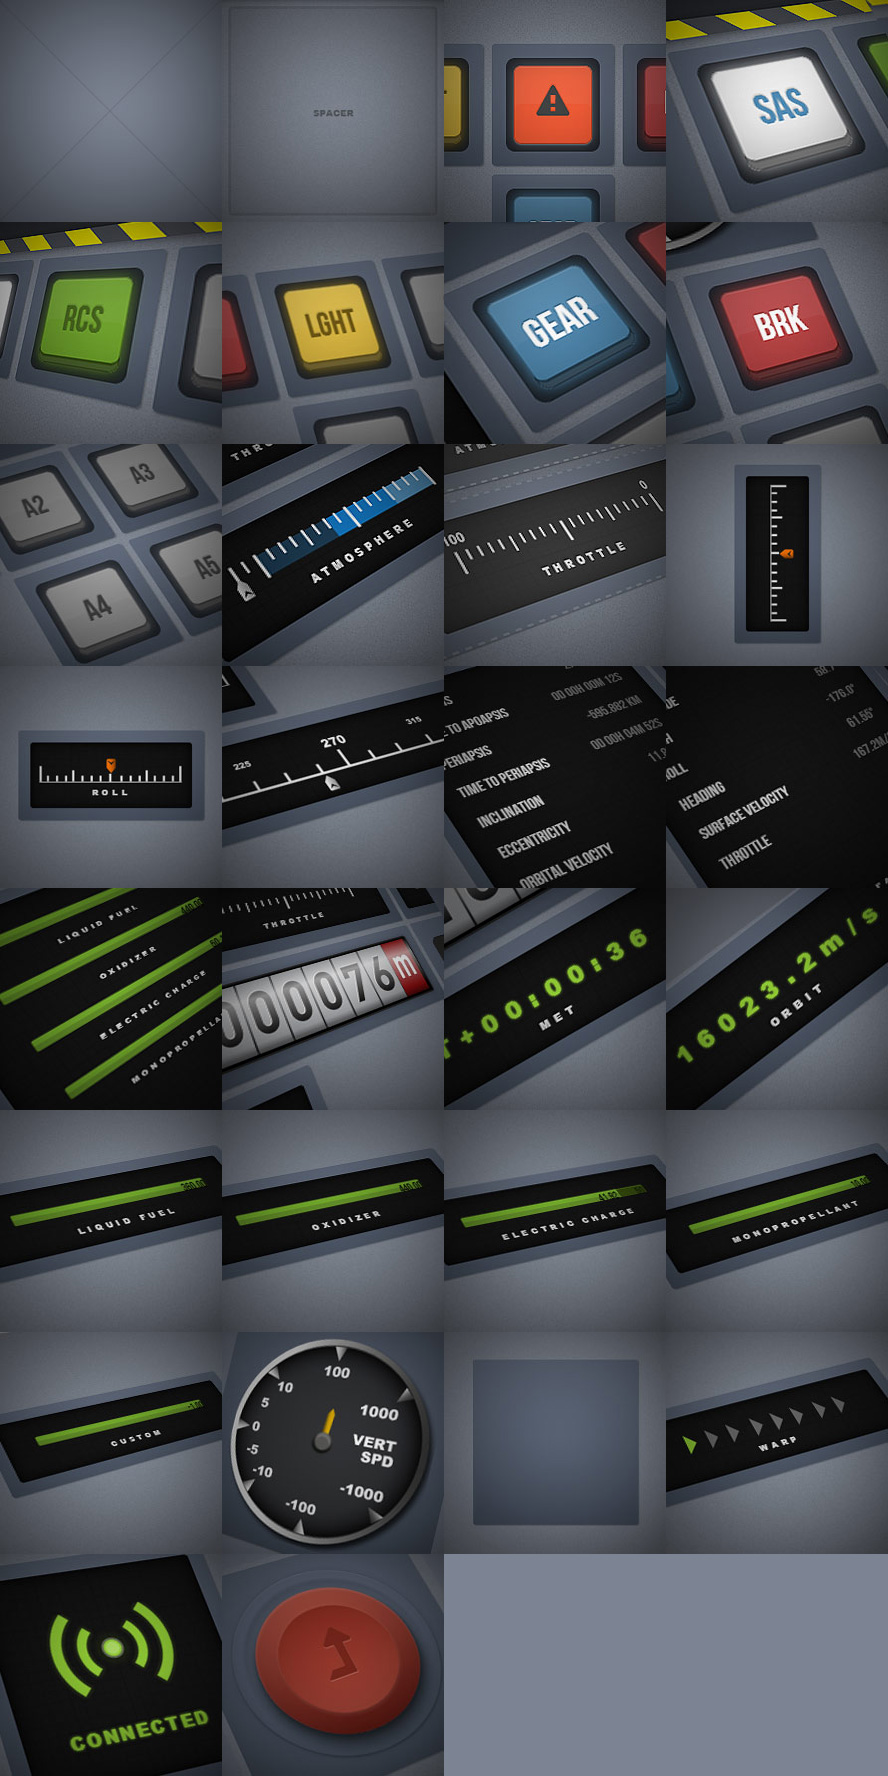
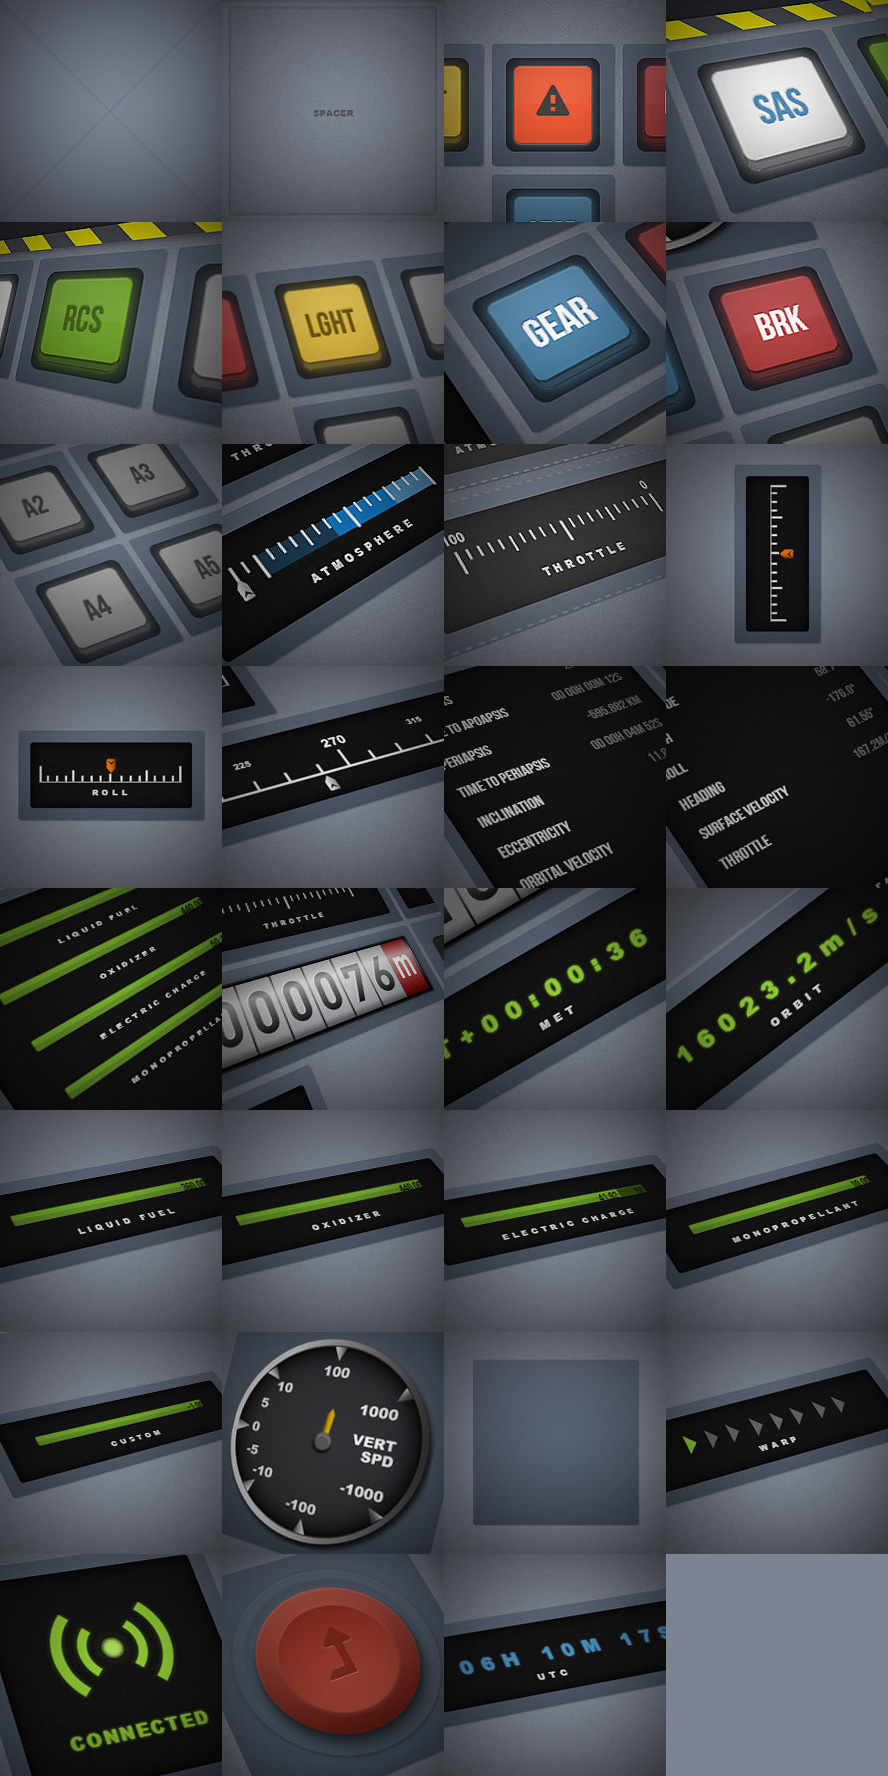
Corrected gridster preview holder dimensions

Changed region(s): [[0.4865, 0.8671, 0.7601, 1.0]]

diff --git a/css/screen.css b/css/screen.css
@@ -80,7 +80,8 @@ p {
   -moz-box-sizing: border-box;
   -ms-box-sizing: border-box;
   box-sizing: border-box;
-  padding: 20px;
+  width: 112px !important;
+  height: 112px !important;
 }
 .gridster .player-revert {
   z-index: 10!important;
@@ -2432,19 +2433,25 @@ header:focus .hitbox {
 .gridsterWrapper ul li .content .screen.met,
 .gridster ul li .content .screen.met,
 .gridsterWrapper ul li .content .screen.utc,
-.gridster ul li .content .screen.utc {
+.gridster ul li .content .screen.utc,
+.gridsterWrapper ul li .content .screen.heading,
+.gridster ul li .content .screen.heading {
   display: table;
 }
 .gridsterWrapper ul li .content .screen.met h3,
 .gridster ul li .content .screen.met h3,
 .gridsterWrapper ul li .content .screen.utc h3,
-.gridster ul li .content .screen.utc h3 {
+.gridster ul li .content .screen.utc h3,
+.gridsterWrapper ul li .content .screen.heading h3,
+.gridster ul li .content .screen.heading h3 {
   bottom: 24px;
 }
 .gridsterWrapper ul li .content .screen.met h3.data-time,
 .gridster ul li .content .screen.met h3.data-time,
 .gridsterWrapper ul li .content .screen.utc h3.data-time,
-.gridster ul li .content .screen.utc h3.data-time {
+.gridster ul li .content .screen.utc h3.data-time,
+.gridsterWrapper ul li .content .screen.heading h3.data-time,
+.gridster ul li .content .screen.heading h3.data-time {
   display: table-cell;
   vertical-align: middle;
   text-align: center;
@@ -2466,6 +2473,23 @@ header:focus .hitbox {
   -webkit-text-shadow: 0px 0px 3px #4c91c0;
   -moz-text-shadow: 0px 0px 3px #4c91c0;
   text-shadow: 0px 0px 3px #4c91c0;
+}
+.gridsterWrapper ul li .content .screen.heading h3.data-heading,
+.gridster ul li .content .screen.heading h3.data-heading {
+  display: table-cell;
+  vertical-align: middle;
+  text-align: center;
+  margin: 0;
+  padding: 0;
+  left: 0px;
+  top: 33px;
+  bottom: 0px;
+  color: #fff;
+  letter-spacing: 0.01em;
+  -webkit-text-shadow: 0px 0px 3px #ffffff;
+  -moz-text-shadow: 0px 0px 3px #ffffff;
+  text-shadow: 0px 0px 3px #ffffff;
+  font-size: 1.3em;
 }
 .gridsterWrapper ul li .content .screen.connection.red div.radio,
 .gridster ul li .content .screen.connection.red div.radio {
@@ -2796,6 +2820,11 @@ header:focus .hitbox {
   -ms-box-sizing: border-box;
   box-sizing: border-box;
   background: none !important;
+  -webkit-transition: background-position 0.3s;
+  -moz-transition: background-position 0.3s;
+  -ms-transition: background-position 0.3s;
+  -o-transition: background-position 0.3s;
+  transition: background-position 0.3s;
 }
 .gridsterWrapper ul li .content .heading-bar .heading,
 .gridster ul li .content .heading-bar .heading {
@@ -2809,11 +2838,6 @@ header:focus .hitbox {
   display: block;
   background-position: -248px -312px;
   background-repeat: repeat-x;
-  -webkit-transition: background-position 0.3s;
-  -moz-transition: background-position 0.3s;
-  -ms-transition: background-position 0.3s;
-  -o-transition: background-position 0.3s;
-  transition: background-position 0.3s;
 }
 .gridsterWrapper ul li .content .heading-bar .heading .marker,
 .gridster ul li .content .heading-bar .heading .marker {

diff --git a/modules/oxidizerResource.min.js b/modules/oxidizerResource.min.js
@@ -1,1 +1,1 @@
-function init(a){var i=a.u,d=a.c||MKON.LAYOUT.defaultCol,e=a.r||MKON.LAYOUT.defaultRow,t=(a.m||"",a.w,a.h,MKON.FNC.randomString(5)),r=["r.resource[Oxidizer]","r.resourceMax[Oxidizer]"],s=new MKON.module("Oxidizer Resource","Resource",t,r,function(){var a=$("#"+this.id),i=MKON.CONTENT.getVariable(r[0]),d=MKON.CONTENT.getVariable(r[1]),e=MKON.FNC.toFixed(i/d*100,2);i=MKON.FNC.toFixed(i,2),d=MKON.FNC.toFixed(d,0);var t=a.find(".data-oxd");t.css("width",e+"%"),t.getAttribute("data-val",i),t.parent().getAttribute("data-val",d)}),o='<li id="'+t+'" data-row="1" data-col="1" data-link="'+i+'" data-sizex="3" data-sizey="1">					<div class="options"><div class="remove"><i class="fa fa-times"></i></div></div>					<div class="content"><div class="resource-bar"><h3>OXIDIZER</H3><div class="s resource" data-val="0"><div class="s value data-oxd" data-val="0"></div></div></div></div></li>';o={html:o,x:3,y:1,col:d,row:e},MKON.CONTENT.addModule(s,o)}
+function init(a){var d=a.u,i=a.c||MKON.LAYOUT.defaultCol,e=a.r||MKON.LAYOUT.defaultRow,t=(a.m||"",a.w,a.h,MKON.FNC.randomString(5)),r=["r.resource[Oxidizer]","r.resourceMax[Oxidizer]"],s=new MKON.module("Oxidizer Resource","Resource",t,r,function(){var a=$("#"+this.id),d=MKON.CONTENT.getVariable(r[0]),i=MKON.CONTENT.getVariable(r[1]),e=MKON.FNC.toFixed(d/i*100,2);d=MKON.FNC.toFixed(d,2),i=MKON.FNC.toFixed(i,0);var t=a.find(".data-oxd");t.css("width",e+"%"),t.attr("data-val",d),t.parent().attr("data-val",i)}),o='<li id="'+t+'" data-row="1" data-col="1" data-link="'+d+'" data-sizex="3" data-sizey="1">					<div class="options"><div class="remove"><i class="fa fa-times"></i></div></div>					<div class="content"><div class="resource-bar"><h3>OXIDIZER</H3><div class="s resource" data-val="0"><div class="s value data-oxd" data-val="0"></div></div></div></div></li>';o={html:o,x:3,y:1,col:i,row:e},MKON.CONTENT.addModule(s,o)}

diff --git a/css/frag/layout.less b/css/frag/layout.less
@@ -1980,7 +1980,7 @@ header {
                     }
 
 
-                    &.met, &.utc {
+                    &.met, &.utc, &.heading {
                         display:table;                      
 
                         h3 {
@@ -2008,6 +2008,23 @@ header {
                             color:@lightBlue;
                             font-size:1.3em;
                             .text-shadow(0px 0px 3px @lightBlue);
+                        }
+                    }
+
+                    &.heading {
+                        h3.data-heading {
+                            display:table-cell;
+                            vertical-align:middle;
+                            text-align:center;
+                            margin:0;
+                            padding:0;
+                            left:0px;
+                            top:33px;
+                            bottom:0px;
+                            color:#fff;
+                            letter-spacing:0.01em;
+                            .text-shadow(0px 0px 3px #fff);
+                            font-size:1.3em;
                         }
                     }
 
@@ -2311,6 +2328,7 @@ header {
                     overflow:hidden;
                     .box-sizing();
                     background:none !important;
+                    .transition(background-position .3s);
 
                     .heading {
 
@@ -2324,7 +2342,6 @@ header {
                         display:block;
                         background-position:-248px -312px;
                         background-repeat:repeat-x;
-                        .transition(background-position .3s);
 
                         .marker {
                             display:block;

diff --git a/modules/headingScale.min.js b/modules/headingScale.min.js
@@ -1,1 +1,1 @@
-function init(a){var d=a.u,i=a.c||MKON.LAYOUT.defaultCol,s=a.r||MKON.LAYOUT.defaultRow,n=(a.m||"",a.w,a.h,MKON.FNC.randomString(5)),t=["n.heading"],e=new MKON.module("Heading Scale","Scale",n,t,function(){var a=$("#"+this.id),d=MKON.CONTENT.getVariable(t),i=-178,s=-978,n=Math.abs(i-s),e=n/360;d*=e,d=i-d,d=MKON.FNC.toFixed(d,2);var o=(a.find(".data-hdn"),a.find(".data-hdn").css("background-position-y"));a.find(".data-hdn").css("background-position",d+"px "+o)}),o='<li id="'+n+'" data-row="1" data-col="1" data-link="'+d+'" data-sizex="1" data-sizey="1">					<div class="options"><div class="remove"><i class="fa fa-times"></i></div></div>					<div class="content">   <div class="deg s heading-bar"><h3>HEADING</H3><div class="heading s data-hdn"><div class="marker s"></div></div></div></div></li>';o={html:o,x:4,y:1,col:i,row:s},MKON.CONTENT.addModule(e,o)}
+function init(a){var d=a.u,i=a.c||MKON.LAYOUT.defaultCol,s=a.r||MKON.LAYOUT.defaultRow,n=(a.m||"",a.w,a.h,MKON.FNC.randomString(5)),t=["n.heading"],e=new MKON.module("Heading Scale","Scale",n,t,function(){var a=$("#"+this.id),d=MKON.CONTENT.getVariable(t),i=-178,s=-978,n=Math.abs(i-s),e=n/360;d*=e,d=i-d,d=MKON.FNC.toFixed(d,0);var o=a.find(".data-hdn"),l=o.css("background-position-y");a.find(".data-hdn").css("background-position",d+"px "+l)}),o='<li id="'+n+'" data-row="1" data-col="1" data-link="'+d+'" data-sizex="1" data-sizey="1">					<div class="options"><div class="remove"><i class="fa fa-times"></i></div></div>					<div class="content">   <div class="deg s heading-bar"><h3>HEADING</H3><div class="heading s data-hdn"><div class="marker s"></div></div></div></div></li>';o={html:o,x:4,y:1,col:i,row:s},MKON.CONTENT.addModule(e,o)}

diff --git a/index.html b/index.html
@@ -137,7 +137,7 @@
 
                         <li class="item data-type-button" data-name="Stage Button" data-type="screen" data-link="modules/stageButton.min.js" style="background-position:-222px -1554px;">
                           <h4 class="title">
-                            Stage Button
+                            Stage
                             <span class="type fa fa-list">
                             </span>
                           </h4>
@@ -331,9 +331,9 @@
                           </a>
                         </li>
 
-                        <li class="item data-type-scale" data-name="Heading" data-type="scale" data-link="modules/headingScale.min.js" style="background-position:-222px -666px;">
+                        <li class="item data-type-scale" data-name="Heading Scale" data-type="scale" data-link="modules/headingScale.min.js" style="background-position:-222px -666px;">
                           <h4 class="title">
-                            Heading
+                            Heading Scale
                             <span class="type fa fa-arrows-h">
                             </span>
                           </h4>
@@ -406,7 +406,7 @@
                           </a>
                         </li>
 
-                        <li class="item data-type-screen" data-name="UTC Time" data-type="screen" data-link="modules/utcScreen.min.js">
+                        <li class="item data-type-screen" data-name="UTC Time" data-type="screen" data-link="modules/utcScreen.min.js" style="background-position:-444px -1554px;">
                           <h4 class="title">
                             UTC Time
                             <span class="type fa fa-list">

diff --git a/modules/utcScreen.min.js b/modules/utcScreen.min.js
@@ -1,1 +1,1 @@
-function init(a){var i=a.u,e=a.c||MKON.LAYOUT.defaultCol,t=a.r||MKON.LAYOUT.defaultRow,l=(a.m||"",a.w,a.h,MKON.FNC.randomString(5)),d=["t.universalTime"],o=new MKON.module("UTC Time Screen","Screen",l,d,function(){var a=$("#"+this.id),i=MKON.CONTENT.getVariable(d)||0;console.log(i),i=MKON.FNC.formatters.time(parseFloat(i)),console.log(i),a.find(".data-time").html(i)}),s='<li id="'+l+'" data-row="1" data-col="1" data-link="'+i+'" data-sizex="1" data-sizey="1">					<div class="options"><div class="remove"><i class="fa fa-times"></i></div></div>					<div class="content"><div class="utc screen"><h3>UTC</H3><h3 class="data-time">0D 0H 0M 0S</h3></div></li>';s={html:s,x:4,y:1,col:e,row:t},MKON.CONTENT.addModule(o,s)}
+function init(a){var i=a.u,t=a.c||MKON.LAYOUT.defaultCol,e=a.r||MKON.LAYOUT.defaultRow,d=(a.m||"",a.w,a.h,MKON.FNC.randomString(5)),l=["t.universalTime"],s=new MKON.module("UTC Time Screen","Screen",d,l,function(){var a=$("#"+this.id),i=MKON.CONTENT.getVariable(l)||0;i=MKON.FNC.formatters.time(parseFloat(i)),a.find(".data-time").html(i)}),n='<li id="'+d+'" data-row="1" data-col="1" data-link="'+i+'" data-sizex="1" data-sizey="1">					<div class="options"><div class="remove"><i class="fa fa-times"></i></div></div>					<div class="content"><div class="utc screen"><h3>UTC</H3><h3 class="data-time">0D 0H 0M 0S</h3></div></li>';n={html:n,x:4,y:1,col:t,row:e},MKON.CONTENT.addModule(s,n)}

diff --git a/modules/src/headingScale.js b/modules/src/headingScale.js
@@ -26,10 +26,10 @@ function init(config) {
 		var scale = difference/360;
 		hdn = (hdn*scale);	
 		hdn = start - hdn;
-		hdn = MKON.FNC.toFixed( hdn, 2);
+		hdn = MKON.FNC.toFixed( hdn, 0);
 	
 		var target = t.find('.data-hdn');
-		var oY = t.find('.data-hdn').css('background-position-y');
+		var oY = target.css('background-position-y');
 
 		//console.log('output: ' + hdn);
 

diff --git a/modules/src/oxidizerResource.js b/modules/src/oxidizerResource.js
@@ -26,8 +26,8 @@ function init(config) {
 		var target = t.find('.data-oxd');
 
 		target.css('width', perc + '%');
-		target.getAttribute('data-val', oxd);
-		target.parent().getAttribute('data-val', maxOxd);
+		target.attr('data-val', oxd);
+		target.parent().attr('data-val', maxOxd);
 
 		// t.find('.marker').css('left', perc + '%')	
 	

diff --git a/modules/src/utcScreen.js b/modules/src/utcScreen.js
@@ -18,12 +18,8 @@ function init(config) {
 		var t = $('#'+this.id);	
 		
 		var utc =  MKON.CONTENT.getVariable(req) || 0;
-		
-		console.log(utc);
 
-		utc = MKON.FNC.formatters.time( parseFloat(utc) );		
-
-		console.log(utc);
+		utc = MKON.FNC.formatters.time( parseFloat(utc) );	
 
 		t.find('.data-time').html(utc);
 	} );

diff --git a/css/frag/plugins.less b/css/frag/plugins.less
@@ -43,7 +43,8 @@
     border:2px #fff dashed;
     opacity: 0.4;
     .box-sizing(border-box);
-    padding:20px;
+    width:112px !important;
+    height:112px !important;
 
 }
 
